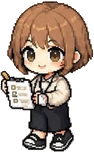
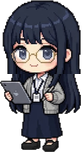
역할 그대로의 캐릭터·설명(v0.7.4)
Claude-Session: https://claude.ai/code/session_01VDivpqgMUaCMRpdy4wQzAT

diff --git a/src/domain/agents.ts b/src/domain/agents.ts
@@ -30,7 +30,7 @@ export const MODE_LABEL: Record<AgentMode, string> = {
   rule: '규칙 기반',
   cloud: 'Cloud 실행',
   manual: '수동 인계',
-  ci: 'CI 연동 예정',
+  ci: 'GitHub Actions',
   api: '서버 자동',
 };
 
@@ -51,13 +51,13 @@ export const AGENTS: Agent[] = [
   {
     id: 'claude',
     name: 'Claude',
-    role: '기획·설계 리드',
-    provider: 'Claude Code Cloud Routines',
+    role: 'PM·기획 + 보조 개발',
+    provider: 'Claude Code 루틴(클라우드)',
     mode: 'cloud',
     home: 'planning',
     skills: ['planning', 'dev', 'research'],
     dailyCap: 20,
-    note: 'Claude Pro 사용량을 쓴다. 서버가 하루 20회로 제한하며(루틴 한도는 시간당 30회), 허용된 저장소 하나만 작업한다.',
+    note: '요청을 기획서와 작업으로 나눈다(PM). Codex가 못 하거나 휴가면 보조 개발을 하고, 올리기 승인 뒤 PR을 연다. Claude Pro 사용량을 쓰고 서버가 하루 20회로 제한한다.',
     sprite: 'person',
     palette: { hair: '#8a4b2d', skin: '#f3cfb1', shirt: '#d97757', pants: '#3d3a46', accent: '#fbe3d4' },
   },
@@ -65,12 +65,12 @@ export const AGENTS: Agent[] = [
     id: 'codex',
     name: 'Codex (Linear)',
     role: '주 개발',
-    provider: 'OpenAI (ChatGPT 계정: Codex·ChatGPT)',
-    mode: 'manual',
+    provider: 'Codex 클라우드(Linear로 맡김)',
+    mode: 'cloud',
     home: 'dev',
     skills: ['dev', 'planning'],
     dailyCap: 6,
-    note: '무인 클라우드 실행이 연결되지 않았다. 지시서를 복사해 직접 전달한다.',
+    note: 'Linear 업무로 받아 Codex 클라우드에서 개발·시험하고 결과를 미노피아로 보낸다. 시작 못 하면 서버가 Claude로 넘긴다.',
     sprite: 'person',
     palette: { hair: '#1c1f26', skin: '#e2b48f', shirt: '#2f9e7a', pants: '#2b3140', accent: '#c9f2e2' },
   },
@@ -90,39 +90,39 @@ export const AGENTS: Agent[] = [
   {
     id: 'studioA',
     name: 'Studio A',
-    role: 'UI·디자인',
-    provider: 'Google AI Studio Build (계정 1)',
-    mode: 'manual',
+    role: 'Gemini · 채점·질문 답(키 A)',
+    provider: 'Gemini API 무료 키 A',
+    mode: 'api',
     home: 'planning',
     skills: ['design', 'prototype', 'research'],
     dailyCap: 5,
-    note: 'AI Studio Build 외부 호출은 확인되지 않았다. 수동 인계만 가능하다.',
+    note: '결과 채점(기본), 대화 질문 답과 웹 조사 정리, 기획서 초안, 앱 지도 이름 붙이기. @StudioA. @Gemini로 고르면 쉬운 개발(Actions)도 한다.',
     sprite: 'person',
     palette: { hair: '#4d6bd6', skin: '#f0c9a8', shirt: '#f2b33d', pants: '#344067', accent: '#ffffff' },
   },
   {
     id: 'studioB',
     name: 'Studio B',
-    role: '프로토타입',
-    provider: 'Google AI Studio Build (계정 2)',
-    mode: 'manual',
+    role: 'Gemini · 채점·질문 답(키 B)',
+    provider: 'Gemini API 무료 키 B',
+    mode: 'api',
     home: 'planning',
     skills: ['prototype', 'design', 'research'],
     dailyCap: 5,
-    note: 'AI Studio Build 외부 호출은 확인되지 않았다. 수동 인계만 가능하다.',
+    note: 'Studio A와 같은 일을 키 B로 한다. A가 한도에 걸리거나 휴가면 대신 답한다. @StudioB면 B가 먼저.',
     sprite: 'person',
     palette: { hair: '#6a3d8f', skin: '#d9a47e', shirt: '#4aa3d8', pants: '#33354a', accent: '#ffffff' },
   },
   {
     id: 'ci',
     name: '미노',
-    role: 'CI 봇 · 검수',
+    role: '검수 · 구조도·앱 지도 그리기',
     provider: 'GitHub Actions',
     mode: 'ci',
     home: 'terminal',
     skills: ['qa'],
     dailyCap: null,
-    note: 'PR마다 typecheck·test·build를 돌린다. 결과 자동 반영은 v0.2에서 연결한다.',
+    note: 'GitHub Actions에서 PR 검사(typecheck·test·build)와 배포를 하고, 바뀐 곳 구조도(Archify)·앱 지도(floorplan)를 그린다. 스킬 넣기·옵시디언 노트도 여기서. 모델 호출 없음(앱 지도 부분 이름만 Gemini).',
     sprite: 'bot',
     palette: { hair: '#9aa6b2', skin: '#c7d0d8', shirt: '#6f7c89', pants: '#4a5560', accent: '#5fe08a' },
   },

diff --git a/src/App.tsx b/src/App.tsx
@@ -21,6 +21,10 @@ import { forgetMaps, StructureMaps } from './components/StructureMaps';
 import { freshReport, savedReport } from './data/mapCache';
 import { installedSkillsOf, isSlimProject, setSkillTitles, setSlimProjects, skillTitleOf } from './data/slimRepos';
 import { skillPickRule } from './domain/skillPick';
+import { endDrawing, startDrawing } from './office/drawing';
+
+/** 점검(앱 지도 그리기)을 시작한 시각, 프로젝트별(v0.7.4 미노 말풍선) */
+const drawStarted = new Map<string, number>();
 import { RelationLoader } from './components/RelationMap';
 import { OfficeMap } from './components/OfficeMap';
 import { FormPopup } from './components/FormPopup';
@@ -1092,7 +1096,15 @@ export function App() {
   };
 
   const workflowActions: WorkflowActions = {
-    archify: store.archify ? (taskId, revision) => store.archify!(taskId, revision) : undefined,
+    // 미노(CI)가 구조도를 그리는 동안 말풍선(v0.7.4): 시작했으면 켜고, 그림이 오면 끈다
+    archify: store.archify
+      ? (taskId, revision) =>
+          store.archify!(taskId, revision).then((r) => {
+            if (r.html) endDrawing(`archify:${taskId}:${revision}`);
+            else if (r.started) startDrawing(`archify:${taskId}:${revision}`, '구조도');
+            return r;
+          })
+      : undefined,
     // 담당 바꾸기·한도 넘기기(v0.5.73): 지금 계획에서 그 작업 담당만 바꾼 새 계획 버전을 만든다. 실행 승인(E)은 다시 받는다.
     pickResult: async (task, r) => {
       // 두 AI 비교에서 고른 결과(v0.6.54): 같은 변경·같은 출처를 새 버전으로 다시 저장해 최신 결과로 만든다(올리기 승인은 최신 결과만 받는다).
@@ -1831,7 +1843,7 @@ export function App() {
     setTab('chat');
     setDraft((d) => ({ text, n: (d?.n ?? 0) + 1 }));
   };
-  const renderCheck = store.healthCheck ? (p: Project) => <HealthCheck maps={false} onFix={fixInChat(p)} api={{ load: () => store.healthCheck!.load(p.id), start: (force?: boolean) => (forgetMaps(p.id), store.healthCheck!.start(p.id, force)), map: () => store.healthCheck!.map(p.id) }} /> : undefined;
+  const renderCheck = store.healthCheck ? (p: Project) => <HealthCheck maps={false} onFix={fixInChat(p)} api={{ load: () => store.healthCheck!.load(p.id).then((r) => (r && drawStarted.get(p.id) && Date.parse(r.checkedAt) >= drawStarted.get(p.id)! - 60_000 && endDrawing(`map:${p.id}`), r)), start: (force?: boolean) => (forgetMaps(p.id), drawStarted.set(p.id, Date.now()), startDrawing(`map:${p.id}`, '앱 지도'), store.healthCheck!.start(p.id, force)), map: () => store.healthCheck!.map(p.id) }} /> : undefined;
   const renderMaps = (p: Project) => (
     <StructureMaps
       id={p.id}

diff --git a/src/domain/triage.ts b/src/domain/triage.ts
@@ -5,10 +5,8 @@
  * - 일반 질문 → 사용자가 고르면 Gemini(무료)에게 묻거나 ChatGPT로 복사한다.
  * 개발 요청의 최종 의도 판단과 기획서는 지금처럼 ChatGPT가 한다(이 분류는 접수 전 1차 분류일 뿐).
  */
-import { AGENT_BY_ID, AGENTS } from './agents';
-import type { AgentId, Project, Snapshot, Task } from './types';
+import type { Project, Snapshot, Task } from './types';
 import { STATUS_LABEL } from './types';
-import { remainingToday, runsToday } from './usage';
 import { deriveWorkflow } from './workflow';
 import { STAGE_LABEL, type Stage } from './workflow-types';
 
@@ -56,30 +54,17 @@ const listTasks = (tasks: Task[], max = 5) =>
     .map((t) => `· ${t.title} (${STATUS_LABEL[t.status]})`)
     .join('\n') + (tasks.length > max ? `\n· 외 ${tasks.length - max}건` : '');
 
-function agentInText(text: string): AgentId | null {
-  const lower = text.toLowerCase();
-  const hit = AGENTS.find((a) => a.dailyCap !== null && (lower.includes(a.name.toLowerCase()) || lower.includes(a.id.toLowerCase())));
-  return hit?.id ?? null;
-}
-
 /** 업무 기록으로 답할 수 있는 질문이면 답, 아니면 null */
 /** 웹에서 찾아 달라는 말 */
 const ASKS_WEB = /찾아\s?(봐|줘|주세요)|검색해|조사해|알아\s?봐|출처|요즘|최신|최근\s?(소식|뉴스|가격|버전)|@(exa|엑사)(?![a-z])/i;
 
-export function answerStatus(text: string, snap: Snapshot, now: Date = new Date()): string | null {
+export function answerStatus(text: string, snap: Snapshot, _now: Date = new Date()): string | null {
   if (!STATUS_WORDS.test(text)) return null;
   // 웹에서 찾아 달라는 말이 있으면 기록 답이 아니라 웹 조사로(v0.7.2: '요즘 Gemini 무료 한도 얼마야? 찾아줘'가 사용량 안내로 가던 것)
   if (ASKS_WEB.test(text)) return null;
   const open = snap.tasks.filter((t) => t.status !== 'done');
 
-  if (/(남은|남았|몇\s?번|사용량|한도)/.test(text)) {
-    const one = agentInText(text);
-    const agents = one ? [AGENT_BY_ID[one]] : AGENTS.filter((a) => a.dailyCap !== null);
-    return (
-      '오늘 실행 기록(KST) 기준입니다. 공급자의 실제 잔여 토큰은 알 수 없습니다.\n' +
-      agents.map((a) => `· ${a.name}: ${runsToday(snap.usage, a.id, now)}/${a.dailyCap}회 사용, ${remainingToday(snap.usage, a.id, now)}회 남음`).join('\n')
-    );
-  }
+  // 남은 횟수·사용량은 대화로 답하지 않는다(v0.7.4 소유자 "버튼이나 내가 보는 걸로"): 위쪽 사용량 막대·에이전트 탭
 
   const projects = matchProjects(text, snap.projects);
   if (projects.length && /(어디까지|상태|진행\s?상황)/.test(text)) {

diff --git a/src/office/OfficeView.tsx b/src/office/OfficeView.tsx
@@ -1,3 +1,4 @@
+import { useDrawing } from './drawing';
 import { useEffect, useMemo, useRef, useState } from 'react';
 import { AGENT_BY_ID, AGENTS } from '../domain/agents';
 import type { AgentId, Task } from '../domain/types';
@@ -6,7 +7,7 @@ import { drawOffice } from './draw';
 import { EXIT, H, MEMO_BOARD, pathBetween, ROOMS, W, type Point, type Spot } from './layout';
 import { ACTIVITY_LABEL, buildScene } from './scene';
 import { badgeFor } from './marks';
-import { speechFor } from './speech';
+import { speechFor, type Speech } from './speech';
 import { spriteFor } from './sprites';
 import { BACKGROUND_URL } from './assets';
 import type { Lamp } from '../domain/serviceLamps';
@@ -57,7 +58,13 @@ export function OfficeView({ tasks, assignments = [], selected, onSelect, workfl
   );
   const leaveRef = useRef(leave);
   leaveRef.current = leave;
-  const speech = useMemo(() => (workflow ? speechFor(tasks, workflow, leaveKey ? (leaveKey.split(',') as AgentId[]) : []) : new Map()), [tasks, workflow, leaveKey]);
+  const drawing = useDrawing();
+  const speech = useMemo(() => {
+    const m: Map<AgentId, Speech> = workflow ? speechFor(tasks, workflow, leaveKey ? (leaveKey.split(',') as AgentId[]) : []) : new Map();
+    // 미노가 그림을 그리는 중(v0.7.4): PR·배포 말풍선이 없을 때만
+    if (drawing && !m.has('ci')) m.set('ci', { text: '그림[…]', label: `${drawing}을(를) 그리는 중`, kind: 'busy', taskId: '' });
+    return m;
+  }, [tasks, workflow, leaveKey, drawing]);
   const sceneRef = useRef(scene);
   sceneRef.current = scene;
 
@@ -301,7 +308,7 @@ export function OfficeView({ tasks, assignments = [], selected, onSelect, workfl
             }}
             onClick={() => {
               onSelect(a.id);
-              if (talking) onOpenTask?.(say.taskId);
+              if (talking && say.taskId) onOpenTask?.(say.taskId);
             }}
             aria-label={label}
             aria-pressed={isSel}

diff --git a/src/office/drawing.ts b/src/office/drawing.ts
@@ -1,0 +1,40 @@
+// 미노(CI)의 그리기 말풍선(v0.7.4, 소유자 "실제로 하는 역할 그대로"): 앱이 GitHub Actions에 그림(앱 지도·바뀐 곳 구조도)을
+// 시킨 동안만 "그림[…]"을 띄운다. 이 기기에서 시킨 것만 알고(다른 기기·서버가 시킨 것은 모름), 끝나거나 10분이 지나면 지운다.
+// shortcut: 서버가 시킨 그림(자동 점검 등)은 말풍선이 안 뜬다, Actions 진행 상태를 서버가 기록하게 되면 그걸 읽는다.
+import { useSyncExternalStore } from 'react';
+
+const MAX_MS = 10 * 60_000;
+let jobs = new Map<string, { label: string; at: number }>();
+const subs = new Set<() => void>();
+const emit = () => subs.forEach((f) => f());
+
+/** 그림을 시작했다(같은 key면 덮어씀) */
+export function startDrawing(key: string, label: string) {
+  jobs = new Map(jobs).set(key, { label, at: Date.now() });
+  emit();
+}
+/** 그림이 끝났다 */
+export function endDrawing(key: string) {
+  if (!jobs.has(key)) return;
+  jobs = new Map(jobs);
+  jobs.delete(key);
+  emit();
+}
+/** 지금 그리는 것(가장 최근 하나, 10분 넘은 것은 뺌) */
+export function currentDrawing(now = Date.now()): string | null {
+  const live = [...jobs.values()].filter((j) => now - j.at < MAX_MS).sort((a, b) => b.at - a.at);
+  return live[0]?.label ?? null;
+}
+export function useDrawing(): string | null {
+  return useSyncExternalStore(
+    (f) => {
+      subs.add(f);
+      const t = window.setInterval(f, 60_000);
+      return () => {
+        subs.delete(f);
+        window.clearInterval(t);
+      };
+    },
+    () => currentDrawing(),
+  );
+}

diff --git a/src/domain/triage.test.ts b/src/domain/triage.test.ts
@@ -28,9 +28,8 @@ describe('triage', () => {
   });
 
   it('앱 상태 질문은 기록으로 바로 답한다', () => {
-    const r = triage('Claude 오늘 몇 번 남았어?', snap, now);
-    expect(r.kind).toBe('status');
-    if (r.kind === 'status') expect(r.answer).toContain('Claude:');
+    // v0.7.4: 남은 횟수·사용량은 대화로 답하지 않는다(위쪽 막대·에이전트 탭)
+    expect(answerStatus('Claude 오늘 몇 번 남았어?', snap, now)).toBeNull();
     expect(answerStatus('진행 중인 업무 뭐야', snap, now)).toContain('진행 중인 업무');
     expect(answerStatus('막힌 거 있어?', snap, now)).toContain('차단된 업무');
     expect(answerStatus('MuscleMap 어디까지 했어?', snap, now)).toContain('MuscleMap 업무');
@@ -105,6 +104,6 @@ describe('웹 조사 요청은 사용량 안내로 가지 않는다(v0.7.2)', ()
     const { answerStatus } = await import('./triage');
     const snap = { tasks: [], usage: [], projects: [], workflow: {} } as never;
     expect(answerStatus('요즘 Gemini 무료 한도 얼마야? 찾아줘', snap)).toBeNull();
-    expect(answerStatus('Claude 한도 몇 번 남았어?', snap)).toContain('오늘 실행 기록');
+    expect(answerStatus('Claude 한도 몇 번 남았어?', snap)).toBeNull();
   });
 });

diff --git a/src/office/unassigned.test.ts b/src/office/unassigned.test.ts
@@ -4,16 +4,16 @@ import { unassignedCharacters } from './unassigned';
 describe('미배정 캐릭터', () => {
   it('서 있는 그림이 있는 캐릭터만, 정한 순서대로', () => {
     const list = unassignedCharacters({
-      '../assets/office/unassigned/lead-stand.png': 'l',
-      '../assets/office/unassigned/planner-stand.png': 'p',
-      '../assets/office/unassigned/planner-walk.png': 'pw',
+      '../assets/office/unassigned/nightdev-stand.png': 'l',
+      '../assets/office/unassigned/clipboard-stand.png': 'p',
+      '../assets/office/unassigned/clipboard-walk.png': 'pw',
       '../assets/office/unassigned/x-walk.png': 'x',
     });
-    expect(list.map((c) => c.id)).toEqual(['planner', 'lead']);
+    expect(list.map((c) => c.id)).toEqual(['clipboard', 'nightdev']);
     expect(list[0]).toMatchObject({ stand: 'p', walk: 'pw' });
     expect(list[1].walk).toBeNull();
   });
   it('저장소의 실제 그림 3명', () => {
-    expect(unassignedCharacters().map((c) => c.id)).toEqual(['planner', 'nightdev']);
+    expect(unassignedCharacters().map((c) => c.id)).toEqual(['clipboard', 'hoodie', 'nightdev']);
   });
 });

diff --git a/src/office/unassigned.ts b/src/office/unassigned.ts
@@ -11,9 +11,9 @@ export interface UnassignedCharacter {
 }
 
 const LABEL: Record<string, string> = {
-  planner: '기획 · 긴 생머리',
+  clipboard: '기획 · 클립보드 (예전 Claude)',
+  hoodie: '개발 · 보라 후드 (예전 Studio B)',
   nightdev: '야간 개발 · 투블럭',
-  lead: '팀장 · 안경',
 };
 
 export function unassignedCharacters(source: Record<string, string> = files): UnassignedCharacter[] {

diff --git a/CHANGELOG.md b/CHANGELOG.md
@@ -1,5 +1,12 @@
 # 변경 기록
 
+## 역할 그대로의 캐릭터·설명(v0.7.4) — 2026-11-13
+
+- 캐릭터 배정(소유자 "역할에 맞는 그림, 미니엉 고정"): Claude = 긴 생머리·태블릿(예전 '기획' 그림, 미니엉과 겹치던 클립보드 대신), Studio B = 돋보기 쌍둥이(민트 머리, Studio A와 짝). 예전 Claude·Studio B 그림은 미배정으로.
+- 역할 설명을 실제로 하는 일로: Claude PM·기획 + 보조 개발, Codex 클라우드(Linear), Studio A·B Gemini 채점·질문 답(키 A·B), 미노 '검수 · 구조도·앱 지도 그리기'(GitHub Actions).
+- 미노 말풍선 '그림[…]': 이 기기에서 점검(앱 지도)·바뀐 곳 구조도를 시킨 동안(PR·배포 말풍선이 없을 때).
+- 대화로 남은 횟수·사용량을 답하던 기능을 뺐다(소유자 "버튼이나 내가 보는 걸로"): 위쪽 사용량 막대·에이전트 탭에서 본다.
+
 ## Grok 완전히 빼기·@Exa 태그(v0.7.3) — 2026-11-13
 
 - Grok을 완전히 뺐다(소유자): 담당 종류·기획 선택지(grok_optional)·동시 실행 상한·휴가·연결 상태·그림(미배정 캐릭터에서도)과 DB 담당 값 목록(마이그레이션 0056, 남아 있던 휴가 한 줄 삭제). 업무·실행 기록에는 Grok 값이 없었다. '팀장·안경' 그림은 Exa가 쓰고, 미배정 목록 이름은 그대로.

diff --git a/docs/STATUS.md b/docs/STATUS.md
@@ -1,6 +1,6 @@
 # 현재 상태 · 2026-11-13
 
-소스 버전은 package.json(지금 v0.7.3). 운영 사이트 minlab-ai-office.pages.dev는 v0.7.3까지 배포. 운영 Supabase에는 마이그레이션 0056까지 적용, 바꾼 서버 함수는 '서버 함수 배포'로 반영했다. 흐름은 [FLOW](FLOW.md), 변경 이력은 [CHANGELOG](../CHANGELOG.md).
+소스 버전은 package.json(지금 v0.7.4). 운영 사이트 minlab-ai-office.pages.dev는 v0.7.4까지 배포. 운영 Supabase에는 마이그레이션 0056까지 적용, 바꾼 서버 함수는 '서버 함수 배포'로 반영했다. 흐름은 [FLOW](FLOW.md), 변경 이력은 [CHANGELOG](../CHANGELOG.md).
 
 ## 소유자 결정(현재 기준)
 
